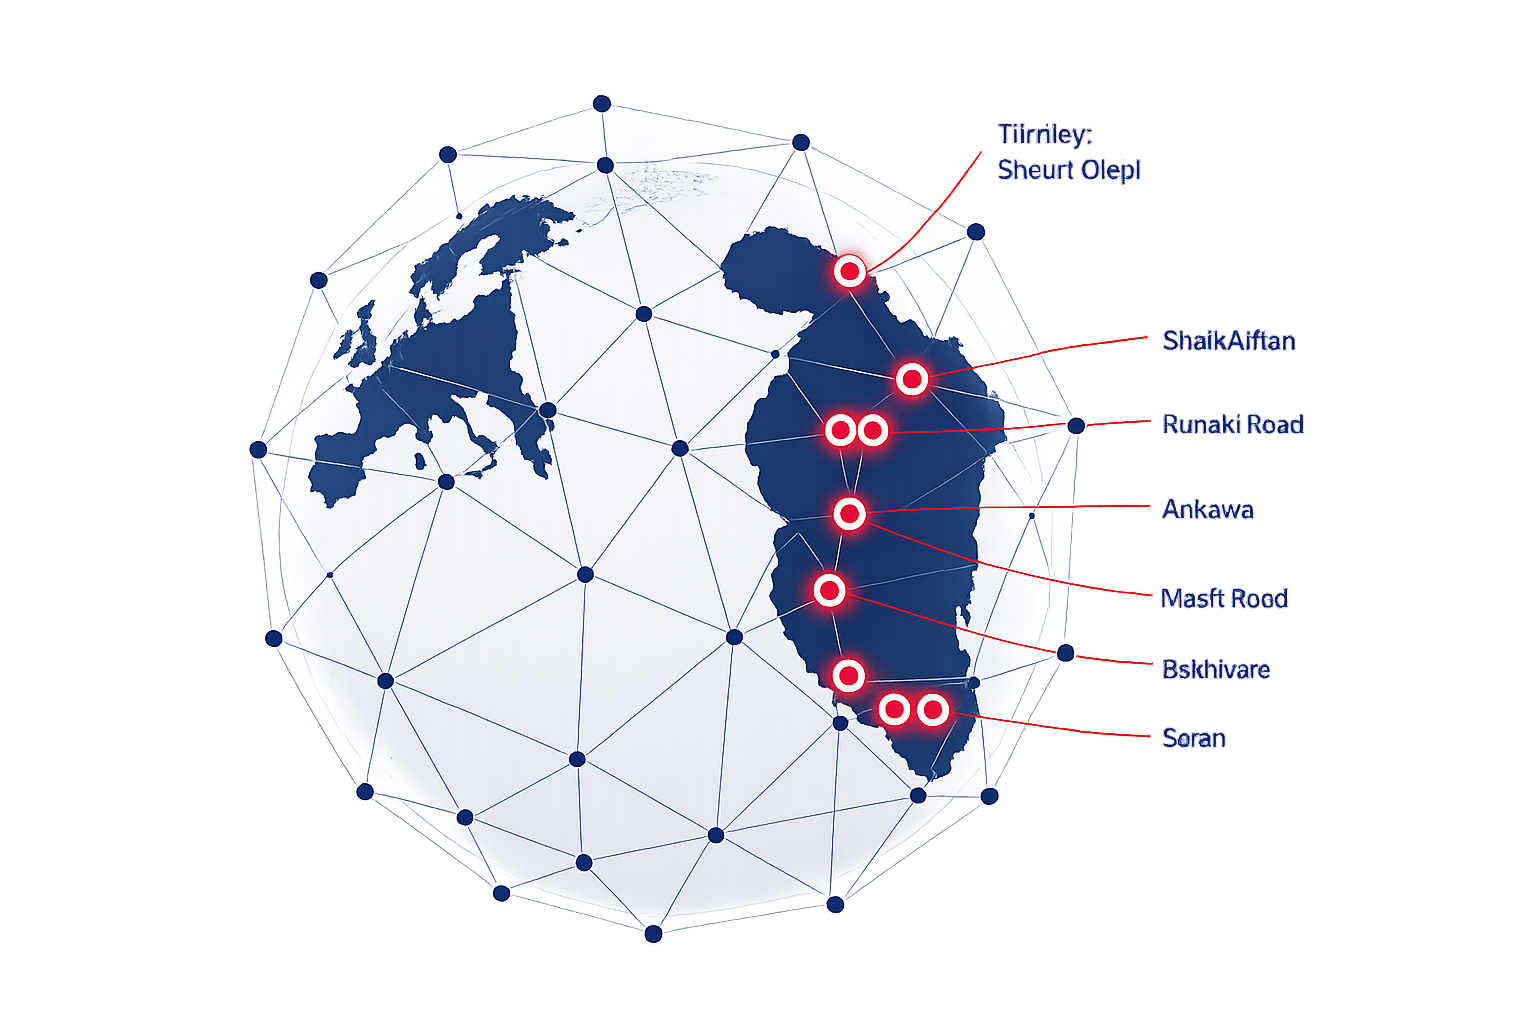
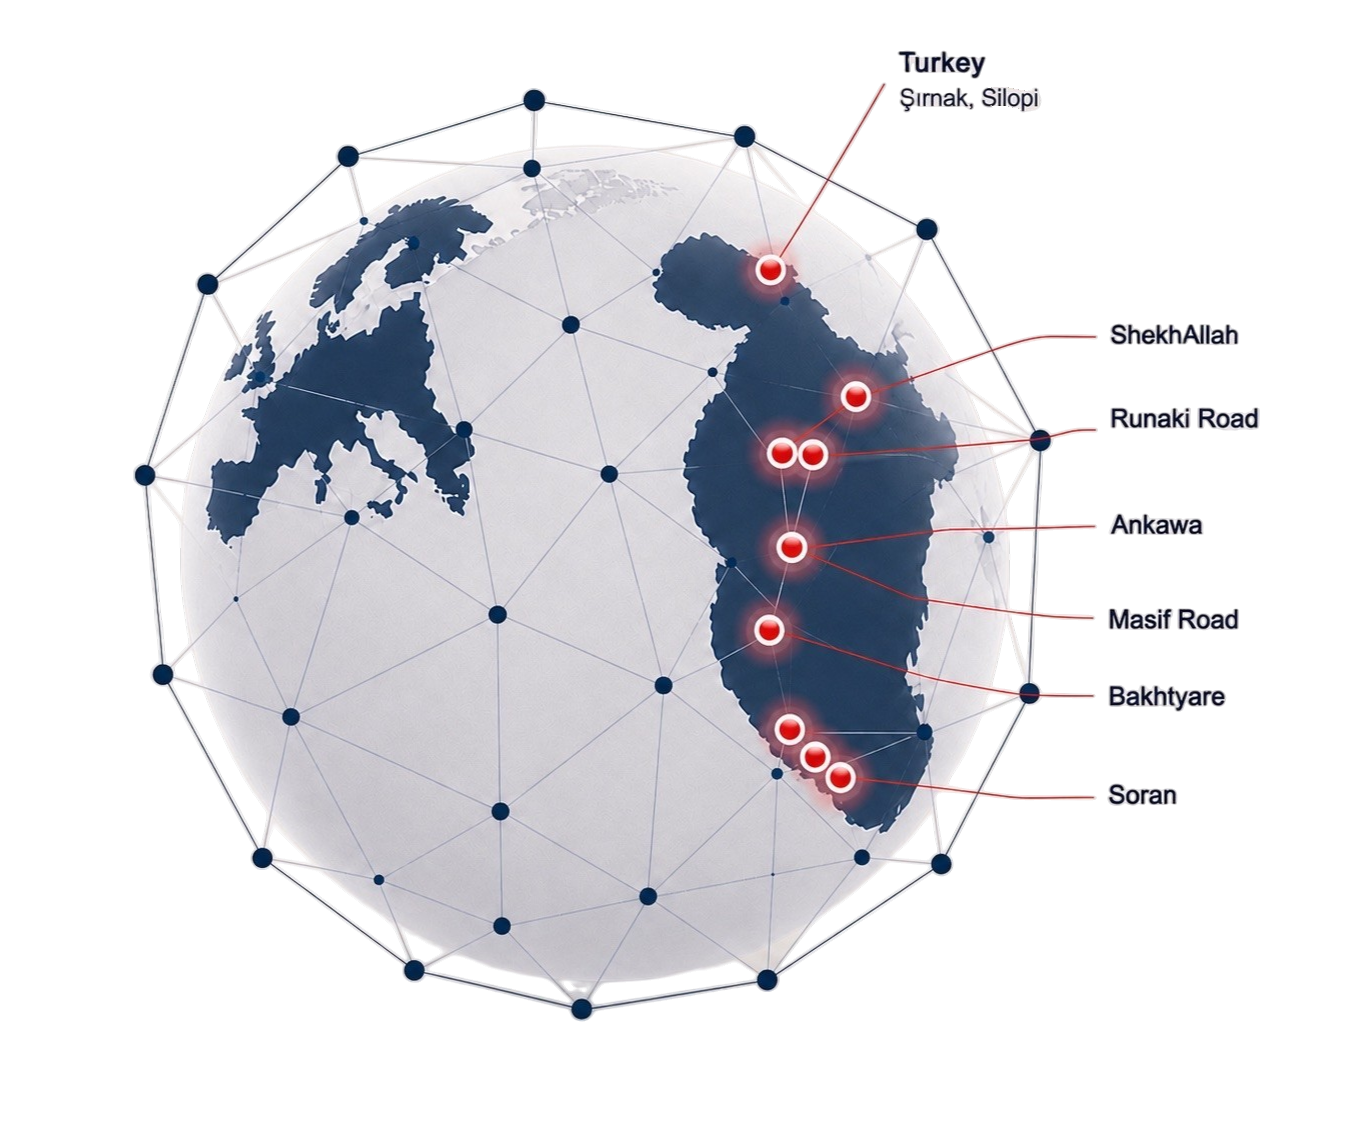
PROOOOOgRESS

diff --git a/src/components/sections/newhero.tsx b/src/components/sections/newhero.tsx
@@ -88,14 +88,14 @@ export default function HeroSection() {
                 {/* Main hero area */}
                 <div className="relative min-h-[600px] lg:min-h-[92vh]">
 
-                    {/* Globe image — animated entrance, always on the RIGHT */}
+                    {/* Globe image — adjusted to be fully visible and slightly smaller */}
                     <div
-                        className={`hero-globe${mounted ? ' ready' : ''} absolute bottom-[0%] right-[-15%] sm:bottom-[-5%] sm:right-[-8%] w-[120%] sm:w-[80%] lg:w-[68%] h-[55%] sm:h-[75%] lg:h-[95%] opacity-90 sm:opacity-100 pointer-events-none`}
+                        className={`hero-globe${mounted ? ' ready' : ''} absolute bottom-[-5%] left-0 right-0 sm:bottom-0 sm:right-0 lg:left-auto lg:bottom-[-2%] lg:right-[4%] w-full sm:w-[90%] md:w-[75%] lg:w-[48%] h-[35%] sm:h-[50%] md:h-[65%] lg:h-[85%] opacity-100 pointer-events-none z-20`}
                     >
                         <img
                             src="/maybenew.png"
                             alt="Global connections"
-                            className="w-full h-full object-contain object-right"
+                            className="w-full h-full object-contain object-bottom"
                             style={{
                                 filter: 'brightness(1.1) contrast(1.05)',
                             }}
@@ -156,7 +156,7 @@ export default function HeroSection() {
                 </div>
 
                 {/* Bottom transition gradient */}
-                <div className="absolute bottom-0 left-0 right-0 h-48 sm:h-40 bg-gradient-to-t from-[#faf9f6] via-[#faf9f6]/90 to-transparent z-20 pointer-events-none" />
+                <div className="absolute bottom-0 left-0 right-0 h-48 sm:h-40 bg-gradient-to-t from-[#faf9f6] via-[#faf9f6]/90 to-transparent z-0 pointer-events-none" />
             </section>
         </>
     );
